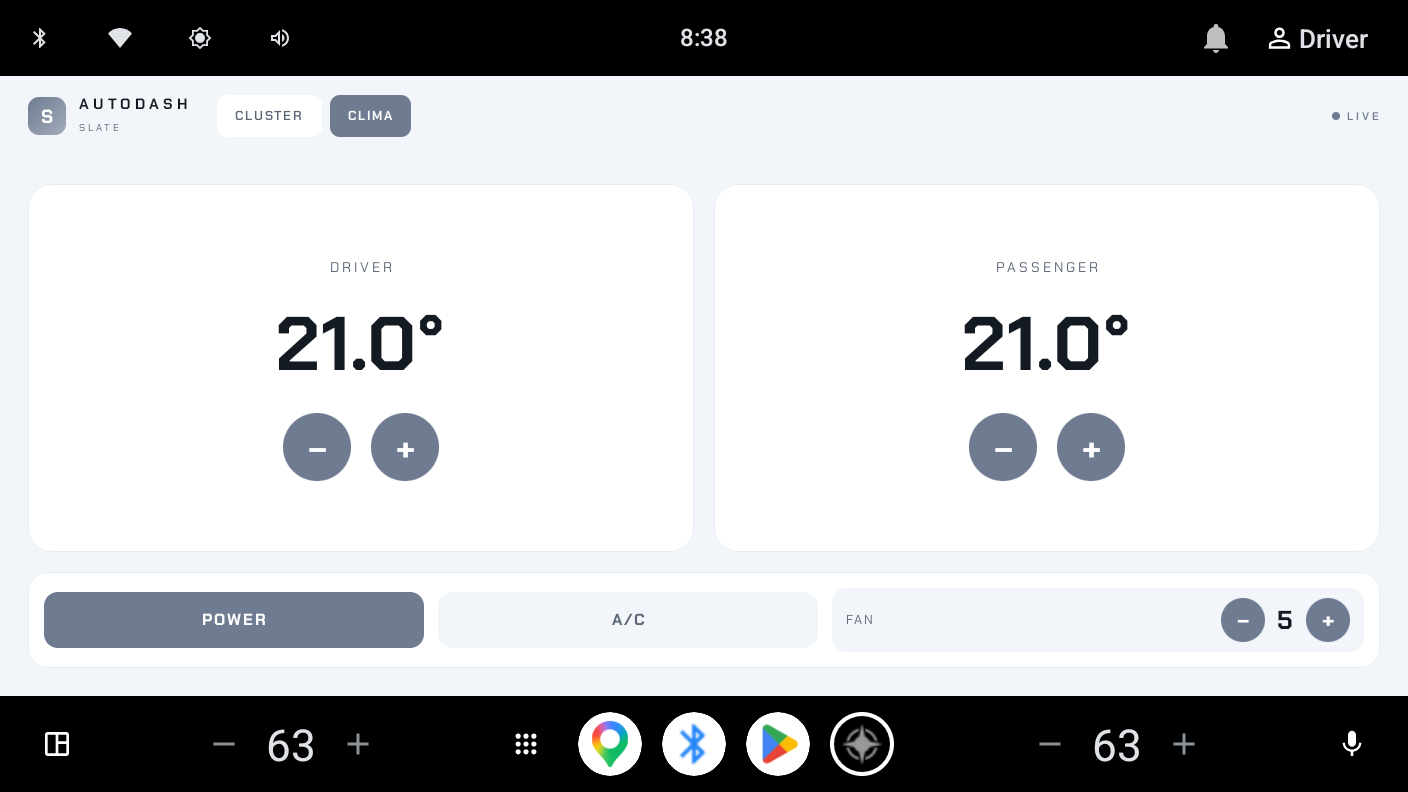
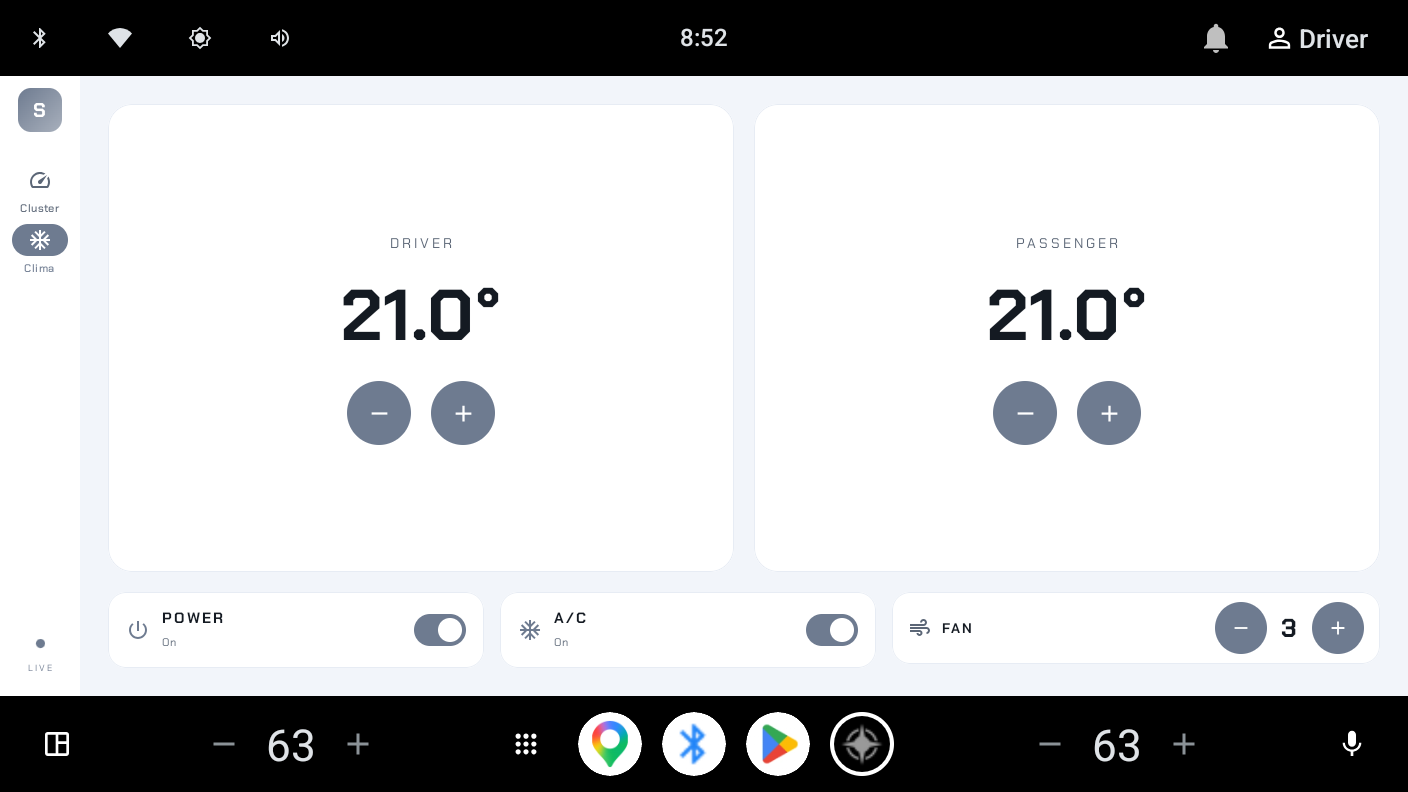
ux: NavigationRail + Switch/IconButton Material3 (a11y), gating do POWER, e flavors de marca
1) A/C e POWER agora sao Switch Material3 com rotulo + status On/Off + icone (feedback claro);
   desligar POWER desabilita/apaga zonas, A/C e FAN (nada de controle morto).
2) Padroes de UX: navegacao vira NavigationRail (padrao automotivo landscape); botoes +/-
   viram FilledIconButton (ripple, alvo >=52-64dp, contentDescription p/ TalkBack); icones
   semanticos (Speed, AcUnit, Air, Power). i18n no On/Off.
3) WHITE-LABEL nos Build Variants: re-adicionados os flavors de marca slate/aurora/ember/nord
   (x debug/release), cada um setando BuildConfig.DEFAULT_BRAND. Nomes neutros, nao OEMs.

Verificado no emulador (slateDebug): rail, switches, gating do POWER. 22 testes verdes.

diff --git a/feature/climate/src/main/java/com/autodash/feature/climate/ClimateScreen.kt b/feature/climate/src/main/java/com/autodash/feature/climate/ClimateScreen.kt
@@ -2,22 +2,29 @@ package com.autodash.feature.climate
 
 import androidx.compose.foundation.background
 import androidx.compose.foundation.border
-import androidx.compose.foundation.clickable
 import androidx.compose.foundation.layout.*
-import androidx.compose.foundation.shape.CircleShape
 import androidx.compose.foundation.shape.RoundedCornerShape
+import androidx.compose.material.icons.Icons
+import androidx.compose.material.icons.filled.AcUnit
+import androidx.compose.material.icons.filled.Add
+import androidx.compose.material.icons.filled.Air
+import androidx.compose.material.icons.filled.PowerSettingsNew
+import androidx.compose.material.icons.filled.Remove
 import androidx.compose.material3.ColorScheme
+import androidx.compose.material3.FilledIconButton
+import androidx.compose.material3.Icon
+import androidx.compose.material3.IconButtonDefaults
 import androidx.compose.material3.MaterialTheme
 import androidx.compose.material3.Surface
+import androidx.compose.material3.Switch
 import androidx.compose.material3.Text
 import androidx.compose.runtime.Composable
 import androidx.compose.ui.Alignment
 import androidx.compose.ui.Modifier
 import androidx.compose.ui.draw.clip
-import androidx.compose.ui.graphics.Color
+import androidx.compose.ui.graphics.vector.ImageVector
 import androidx.compose.ui.res.stringResource
 import androidx.compose.ui.text.font.FontWeight
-import androidx.compose.ui.text.style.TextAlign
 import androidx.compose.ui.unit.dp
 import androidx.compose.ui.unit.sp
 import com.autodash.core.designsystem.ChakraPetch
@@ -25,9 +32,9 @@ import com.autodash.core.model.Climate
 import com.autodash.core.model.Seat
 
 /**
- * CLIMA — HVAC completo por ZONA: temperatura de cada assento (HVAC_TEMPERATURE_SET por area),
- * + POWER / A/C / FAN. Todo +/- e toggle chama setProperty na camada de dados (docs/02, 04).
- * Sem tema próprio (host aplica AutoDashTheme). Responsivo por medida real.
+ * CLIMA — HVAC por ZONA + POWER/A-C/FAN. Padrões de UX: componentes Material3 (Switch,
+ * FilledIconButton) com ripple, alvo grande (≥64dp p/ carro) e contentDescription (TalkBack).
+ * Desligar POWER **desabilita e apaga** zonas/A-C/FAN — feedback claro do estado.
  */
 @Composable
 fun ClimateScreen(
@@ -38,25 +45,30 @@ fun ClimateScreen(
     onFan: (Int) -> Unit = {},
 ) {
     val cs = MaterialTheme.colorScheme
+    val on = state.powerOn
     Surface(Modifier.fillMaxSize(), color = cs.background) {
         BoxWithConstraints(Modifier.fillMaxSize().padding(28.dp)) {
             val wide = maxWidth >= maxHeight
             Column(Modifier.fillMaxSize(), verticalArrangement = Arrangement.spacedBy(20.dp)) {
-                val zones: @Composable (Modifier) -> Unit = { m ->
-                    ZoneCard(stringResource(R.string.driver), state.temp(Seat.DRIVER), state.powerOn, m) { onDelta(Seat.DRIVER, it) }
+                val zones = @Composable { m: Modifier ->
+                    Row(m, horizontalArrangement = Arrangement.spacedBy(20.dp)) {
+                        ZoneCard(stringResource(R.string.driver), state.temp(Seat.DRIVER), on, Modifier.weight(1f).fillMaxHeight()) { onDelta(Seat.DRIVER, it) }
+                        ZoneCard(stringResource(R.string.passenger), state.temp(Seat.PASSENGER), on, Modifier.weight(1f).fillMaxHeight()) { onDelta(Seat.PASSENGER, it) }
+                    }
                 }
                 if (wide) {
-                    Row(Modifier.fillMaxWidth().weight(1f), horizontalArrangement = Arrangement.spacedBy(20.dp)) {
-                        ZoneCard(stringResource(R.string.driver), state.temp(Seat.DRIVER), state.powerOn, Modifier.weight(1f).fillMaxHeight()) { onDelta(Seat.DRIVER, it) }
-                        ZoneCard(stringResource(R.string.passenger), state.temp(Seat.PASSENGER), state.powerOn, Modifier.weight(1f).fillMaxHeight()) { onDelta(Seat.PASSENGER, it) }
-                    }
+                    zones(Modifier.fillMaxWidth().weight(1f))
                 } else {
                     Column(Modifier.fillMaxWidth().weight(1f), verticalArrangement = Arrangement.spacedBy(20.dp)) {
-                        ZoneCard(stringResource(R.string.driver), state.temp(Seat.DRIVER), state.powerOn, Modifier.fillMaxWidth().weight(1f)) { onDelta(Seat.DRIVER, it) }
-                        ZoneCard(stringResource(R.string.passenger), state.temp(Seat.PASSENGER), state.powerOn, Modifier.fillMaxWidth().weight(1f)) { onDelta(Seat.PASSENGER, it) }
+                        ZoneCard(stringResource(R.string.driver), state.temp(Seat.DRIVER), on, Modifier.fillMaxWidth().weight(1f)) { onDelta(Seat.DRIVER, it) }
+                        ZoneCard(stringResource(R.string.passenger), state.temp(Seat.PASSENGER), on, Modifier.fillMaxWidth().weight(1f)) { onDelta(Seat.PASSENGER, it) }
                     }
                 }
-                ControlsBar(state, cs, onPower, onAc, onFan)
+                Row(Modifier.fillMaxWidth(), horizontalArrangement = Arrangement.spacedBy(16.dp)) {
+                    SwitchTile("POWER", Icons.Filled.PowerSettingsNew, on, enabled = true, Modifier.weight(1f)) { onPower() }
+                    SwitchTile("A/C", Icons.Filled.AcUnit, state.acOn && on, enabled = on, Modifier.weight(1f)) { onAc() }
+                    FanTile(state.fanSpeed, enabled = on, Modifier.weight(1.3f), onFan)
+                }
             }
         }
     }
@@ -65,74 +77,81 @@ fun ClimateScreen(
 @Composable
 private fun ZoneCard(label: String, tempC: Float, enabled: Boolean, modifier: Modifier, onDelta: (Float) -> Unit) {
     val cs = MaterialTheme.colorScheme
-    val alpha = if (enabled) 1f else 0.35f
+    val a = if (enabled) 1f else 0.35f
     Column(
         modifier.clip(RoundedCornerShape(24.dp)).background(cs.surface)
             .border(1.dp, cs.surfaceVariant, RoundedCornerShape(24.dp)).padding(24.dp),
         horizontalAlignment = Alignment.CenterHorizontally,
         verticalArrangement = Arrangement.Center,
     ) {
-        Text(label.uppercase(), color = cs.onSurfaceVariant.copy(alpha = alpha), fontFamily = ChakraPetch,
+        Text(label.uppercase(), color = cs.onSurfaceVariant.copy(alpha = a), fontFamily = ChakraPetch,
             letterSpacing = 3.sp, fontSize = 14.sp)
-        Spacer(Modifier.height(16.dp))
-        Text("%.1f°".format(tempC), color = cs.onSurface.copy(alpha = alpha), fontFamily = ChakraPetch,
-            fontWeight = FontWeight.Bold, fontSize = 76.sp)
-        Spacer(Modifier.height(20.dp))
+        Spacer(Modifier.height(14.dp))
+        Text("%.1f°".format(tempC), color = cs.onSurface.copy(alpha = a), fontFamily = ChakraPetch,
+            fontWeight = FontWeight.Bold, fontSize = 72.sp)
+        Spacer(Modifier.height(18.dp))
         Row(horizontalArrangement = Arrangement.spacedBy(20.dp)) {
-            RoundBtn("−", 68.dp, cs) { if (enabled) onDelta(-0.5f) }
-            RoundBtn("+", 68.dp, cs) { if (enabled) onDelta(0.5f) }
+            BigIconButton(Icons.Filled.Remove, "Diminuir temperatura de $label", enabled) { onDelta(-0.5f) }
+            BigIconButton(Icons.Filled.Add, "Aumentar temperatura de $label", enabled) { onDelta(0.5f) }
         }
     }
 }
 
 @Composable
-private fun ControlsBar(state: Climate, cs: ColorScheme, onPower: () -> Unit, onAc: () -> Unit, onFan: (Int) -> Unit) {
+private fun SwitchTile(label: String, icon: ImageVector, checked: Boolean, enabled: Boolean, modifier: Modifier, onToggle: () -> Unit) {
+    val cs = MaterialTheme.colorScheme
+    val a = if (enabled) 1f else 0.4f
     Row(
-        Modifier.fillMaxWidth().clip(RoundedCornerShape(20.dp)).background(cs.surface)
-            .border(1.dp, cs.surfaceVariant, RoundedCornerShape(20.dp)).padding(16.dp),
+        modifier.clip(RoundedCornerShape(18.dp)).background(cs.surface)
+            .border(1.dp, cs.surfaceVariant, RoundedCornerShape(18.dp)).padding(horizontal = 18.dp, vertical = 14.dp),
         verticalAlignment = Alignment.CenterVertically,
-        horizontalArrangement = Arrangement.spacedBy(14.dp),
     ) {
-        Toggle("POWER", state.powerOn, cs, Modifier.weight(1f), onPower)
-        Toggle("A/C", state.acOn, cs, Modifier.weight(1f), onAc)
-        // FAN
-        Row(
-            Modifier.weight(1.4f).clip(RoundedCornerShape(14.dp)).background(cs.background)
-                .padding(horizontal = 14.dp, vertical = 10.dp),
-            verticalAlignment = Alignment.CenterVertically,
-        ) {
-            Text("FAN", color = cs.onSurfaceVariant, fontFamily = ChakraPetch, letterSpacing = 2.sp, fontSize = 13.sp)
-            Spacer(Modifier.weight(1f))
-            RoundBtn("−", 44.dp, cs) { onFan(-1) }
-            Spacer(Modifier.width(12.dp))
-            Text("${state.fanSpeed}", color = cs.onSurface, fontFamily = ChakraPetch,
-                fontWeight = FontWeight.Bold, fontSize = 26.sp)
-            Spacer(Modifier.width(12.dp))
-            RoundBtn("+", 44.dp, cs) { onFan(1) }
+        Icon(icon, contentDescription = null,
+            tint = (if (checked) cs.primary else cs.onSurfaceVariant).copy(alpha = a))
+        Spacer(Modifier.width(12.dp))
+        Column {
+            Text(label, color = cs.onSurface.copy(alpha = a), fontFamily = ChakraPetch,
+                fontWeight = FontWeight.Bold, letterSpacing = 2.sp, fontSize = 15.sp)
+            Text(if (checked) stringResource(R.string.on) else stringResource(R.string.off),
+                color = cs.onSurfaceVariant.copy(alpha = a), fontFamily = ChakraPetch, fontSize = 11.sp)
         }
+        Spacer(Modifier.weight(1f))
+        Switch(checked = checked, onCheckedChange = { onToggle() }, enabled = enabled)
     }
 }
 
 @Composable
-private fun Toggle(label: String, on: Boolean, cs: ColorScheme, modifier: Modifier, onClick: () -> Unit) {
-    Box(
-        modifier.clip(RoundedCornerShape(14.dp))
-            .background(if (on) cs.primary else cs.background)
-            .clickable { onClick() }.padding(vertical = 16.dp),
-        contentAlignment = Alignment.Center,
+private fun FanTile(fan: Int, enabled: Boolean, modifier: Modifier, onFan: (Int) -> Unit) {
+    val cs = MaterialTheme.colorScheme
+    val a = if (enabled) 1f else 0.4f
+    Row(
+        modifier.clip(RoundedCornerShape(18.dp)).background(cs.surface)
+            .border(1.dp, cs.surfaceVariant, RoundedCornerShape(18.dp)).padding(horizontal = 16.dp, vertical = 10.dp),
+        verticalAlignment = Alignment.CenterVertically,
     ) {
-        Text(label, color = if (on) cs.onPrimary else cs.onSurfaceVariant, fontFamily = ChakraPetch,
-            fontWeight = FontWeight.Bold, letterSpacing = 2.sp, fontSize = 16.sp)
+        Icon(Icons.Filled.Air, contentDescription = null, tint = cs.onSurfaceVariant.copy(alpha = a))
+        Spacer(Modifier.width(10.dp))
+        Text("FAN", color = cs.onSurface.copy(alpha = a), fontFamily = ChakraPetch,
+            fontWeight = FontWeight.Bold, letterSpacing = 2.sp, fontSize = 14.sp)
+        Spacer(Modifier.weight(1f))
+        BigIconButton(Icons.Filled.Remove, "Reduzir ventilação", enabled, 52.dp) { onFan(-1) }
+        Text("$fan", color = cs.onSurface.copy(alpha = a), fontFamily = ChakraPetch,
+            fontWeight = FontWeight.Bold, fontSize = 26.sp,
+            modifier = Modifier.padding(horizontal = 14.dp))
+        BigIconButton(Icons.Filled.Add, "Aumentar ventilação", enabled, 52.dp) { onFan(1) }
     }
 }
 
 @Composable
-private fun RoundBtn(symbol: String, size: androidx.compose.ui.unit.Dp, cs: ColorScheme, onClick: () -> Unit) {
-    Box(
-        Modifier.size(size).clip(CircleShape).background(cs.primary).clickable { onClick() },
-        contentAlignment = Alignment.Center,
+private fun BigIconButton(icon: ImageVector, desc: String, enabled: Boolean, size: androidx.compose.ui.unit.Dp = 64.dp, onClick: () -> Unit) {
+    val cs = MaterialTheme.colorScheme
+    FilledIconButton(
+        onClick = onClick, enabled = enabled, modifier = Modifier.size(size),
+        colors = IconButtonDefaults.filledIconButtonColors(
+            containerColor = cs.primary, contentColor = cs.onPrimary,
+            disabledContainerColor = cs.surfaceVariant, disabledContentColor = cs.onSurfaceVariant,
+        ),
     ) {
-        Text(symbol, color = cs.onPrimary, fontFamily = ChakraPetch, fontWeight = FontWeight.Bold,
-            fontSize = (size.value * 0.5f).sp, textAlign = TextAlign.Center)
+        Icon(icon, contentDescription = desc, modifier = Modifier.size(size * 0.42f))
     }
 }

diff --git a/app/src/main/java/com/autodash/app/MainActivity.kt b/app/src/main/java/com/autodash/app/MainActivity.kt
@@ -4,10 +4,16 @@ import android.os.Bundle
 import androidx.activity.ComponentActivity
 import androidx.activity.compose.setContent
 import androidx.compose.foundation.background
-import androidx.compose.foundation.clickable
 import androidx.compose.foundation.layout.*
 import androidx.compose.foundation.shape.RoundedCornerShape
+import androidx.compose.material.icons.Icons
+import androidx.compose.material.icons.filled.AcUnit
+import androidx.compose.material.icons.filled.Speed
+import androidx.compose.material3.Icon
 import androidx.compose.material3.MaterialTheme
+import androidx.compose.material3.NavigationRail
+import androidx.compose.material3.NavigationRailItem
+import androidx.compose.material3.NavigationRailItemDefaults
 import androidx.compose.material3.Surface
 import androidx.compose.material3.Text
 import androidx.compose.runtime.Composable
@@ -19,7 +25,8 @@ import androidx.compose.ui.Alignment
 import androidx.compose.ui.Modifier
 import androidx.compose.ui.draw.clip
 import androidx.compose.ui.graphics.Brush
-import androidx.compose.ui.graphics.Color
+import androidx.compose.ui.semantics.contentDescription
+import androidx.compose.ui.semantics.semantics
 import androidx.compose.ui.text.font.FontWeight
 import androidx.compose.ui.unit.dp
 import androidx.compose.ui.unit.sp
@@ -39,9 +46,8 @@ import com.autodash.feature.dashboard.DashboardScreen
 import com.autodash.feature.dashboard.DashboardViewModel
 
 /**
- * Host. Chrome do app (marca + nav Cluster/Clima) + as telas (headerless).
- * WHITE-LABEL: marca fixa por build (BuildConfig.DEFAULT_BRAND). DEMO: FakeCarRepository.
- * Em AAOS real: CarPropertyRepository(android.car.Car.createCar(this)).
+ * Host. Navegação por **NavigationRail** (padrão automotivo em landscape: alvo grande,
+ * foco/rotativo, TalkBack). White-label: marca do FLAVOR (BuildConfig.DEFAULT_BRAND).
  */
 class MainActivity : ComponentActivity() {
     override fun onCreate(savedInstanceState: Bundle?) {
@@ -53,15 +59,16 @@ class MainActivity : ComponentActivity() {
                 val dashVm: DashboardViewModel = viewModel(factory = factory { DashboardViewModel(repo) })
                 val climVm: ClimateViewModel = viewModel(factory = factory { ClimateViewModel(repo) })
                 Surface(Modifier.fillMaxSize(), color = MaterialTheme.colorScheme.background) {
-                    Column(Modifier.fillMaxSize()) {
-                        AppBar(tab, onTab = { tab = it })
+                    Row(Modifier.fillMaxSize()) {
+                        Rail(tab, onTab = { tab = it })
                         Box(Modifier.weight(1f)) {
                             if (tab == 0) {
                                 val s by dashVm.ui.collectAsStateWithLifecycle()
                                 DashboardScreen(s)
                             } else {
                                 val c by climVm.ui.collectAsStateWithLifecycle()
-                                ClimateScreen(c, onDelta = climVm::delta, onPower = climVm::togglePower, onAc = climVm::toggleAc, onFan = climVm::fan)
+                                ClimateScreen(c, onDelta = climVm::delta, onPower = climVm::togglePower,
+                                    onAc = climVm::toggleAc, onFan = climVm::fan)
                             }
                         }
                     }
@@ -71,53 +78,43 @@ class MainActivity : ComponentActivity() {
     }
 }
 
-/** Barra do app: identidade da marca + navegação. Chrome fica no app, não nas telas. */
 @Composable
-private fun AppBar(tab: Int, onTab: (Int) -> Unit) {
+private fun Rail(tab: Int, onTab: (Int) -> Unit) {
     val cs = MaterialTheme.colorScheme
     val brand = LocalBrandTokens.current
-    Row(
-        Modifier.fillMaxWidth().padding(horizontal = 28.dp, vertical = 16.dp),
-        verticalAlignment = Alignment.CenterVertically,
+    NavigationRail(
+        header = {
+            Box(
+                Modifier.padding(top = 8.dp).size(44.dp).clip(RoundedCornerShape(13.dp))
+                    .background(Brush.linearGradient(listOf(cs.primary, cs.primary.copy(alpha = 0.6f))))
+                    .semantics { contentDescription = "AutoDash ${brand.name}" },
+                contentAlignment = Alignment.Center,
+            ) {
+                Text(brand.name.take(1), color = cs.onPrimary, fontFamily = ChakraPetch,
+                    fontWeight = FontWeight.Bold, fontSize = 20.sp)
+            }
+        },
     ) {
-        Box(
-            Modifier.size(38.dp).clip(RoundedCornerShape(11.dp))
-                .background(Brush.linearGradient(listOf(cs.primary, cs.primary.copy(alpha = 0.6f)))),
-            contentAlignment = Alignment.Center,
-        ) {
-            Text(brand.name.take(1), color = cs.onPrimary, fontFamily = ChakraPetch,
-                fontWeight = FontWeight.Bold, fontSize = 19.sp)
-        }
-        Spacer(Modifier.width(13.dp))
-        Column {
-            Text("AUTODASH", color = cs.onBackground, fontFamily = ChakraPetch,
-                fontWeight = FontWeight.Bold, letterSpacing = 4.sp, fontSize = 15.sp)
-            Text(brand.name, color = cs.onSurfaceVariant, fontFamily = ChakraPetch,
-                letterSpacing = 3.sp, fontSize = 10.sp)
-        }
-        Spacer(Modifier.width(28.dp))
-        NavPill("CLUSTER", tab == 0) { onTab(0) }
-        Spacer(Modifier.width(8.dp))
-        NavPill("CLIMA", tab == 1) { onTab(1) }
+        Spacer(Modifier.height(12.dp))
+        val colors = NavigationRailItemDefaults.colors(
+            selectedIconColor = cs.onPrimary, indicatorColor = cs.primary,
+            unselectedIconColor = cs.onSurfaceVariant,
+            selectedTextColor = cs.primary, unselectedTextColor = cs.onSurfaceVariant,
+        )
+        NavigationRailItem(
+            selected = tab == 0, onClick = { onTab(0) }, colors = colors,
+            icon = { Icon(Icons.Filled.Speed, contentDescription = "Cluster") },
+            label = { Text("Cluster", fontFamily = ChakraPetch, fontSize = 11.sp) },
+        )
+        NavigationRailItem(
+            selected = tab == 1, onClick = { onTab(1) }, colors = colors,
+            icon = { Icon(Icons.Filled.AcUnit, contentDescription = "Clima") },
+            label = { Text("Clima", fontFamily = ChakraPetch, fontSize = 11.sp) },
+        )
         Spacer(Modifier.weight(1f))
-        Box(Modifier.size(8.dp).clip(RoundedCornerShape(4.dp)).background(cs.primary))
-        Spacer(Modifier.width(7.dp))
-        Text("LIVE", color = cs.primary, fontFamily = ChakraPetch,
-            fontWeight = FontWeight.SemiBold, letterSpacing = 3.sp, fontSize = 11.sp)
-    }
-}
-
-@Composable
-private fun NavPill(label: String, on: Boolean, onClick: () -> Unit) {
-    val cs = MaterialTheme.colorScheme
-    Box(
-        Modifier.clip(RoundedCornerShape(10.dp))
-            .background(if (on) cs.primary else cs.surface)
-            .clickable { onClick() }
-            .padding(horizontal = 18.dp, vertical = 9.dp),
-    ) {
-        Text(label, color = if (on) cs.onPrimary else cs.onSurfaceVariant,
-            fontFamily = ChakraPetch, fontWeight = FontWeight.SemiBold, letterSpacing = 2.sp, fontSize = 13.sp)
+        Box(Modifier.size(9.dp).clip(RoundedCornerShape(5.dp)).background(cs.primary))
+        Text("LIVE", color = cs.primary, fontFamily = ChakraPetch, fontSize = 9.sp,
+            letterSpacing = 2.sp, modifier = Modifier.padding(bottom = 12.dp, top = 4.dp))
     }
 }
 

diff --git a/docs/10-cluster-hvac-nav.md b/docs/10-cluster-hvac-nav.md
@@ -22,3 +22,16 @@ Duas telas, dois ViewModels, um repositório. White-label: sem seletor de marca.
 - **Template POI (Robolectric + androidx.car.app:app-testing):** `PoiScreenTest` valida que
   `PoiScreen` devolve `ListTemplate` com N itens e o detalhe é `PaneTemplate` — testa a UI
   dirigível sem host de carro. 21 testes no total, verdes.
+
+## UX / usabilidade (padrões)
+- **Navegação:** `NavigationRail` (Material3) — padrão em head unit landscape: alvos grandes,
+  ícones + rótulo, foco/rotativo e TalkBack de graça. (Antes eram "pills" caseiras.)
+- **Controles:** `Switch` (POWER, A/C) com rótulo + status **On/Off** e ícone — feedback claro;
+  `FilledIconButton` (≥52–64dp) com `contentDescription` p/ +/- de temperatura e ventilação.
+- **Estado dependente:** desligar POWER **desabilita e apaga** zonas/A-C/FAN (nada de controle
+  "morto" clicável). i18n nos rótulos e no On/Off.
+
+## White-label nos Build Variants
+Cada marca é um **product flavor** (`slate`/`aurora`/`ember`/`nord`), então aparece em
+**Build Variants** no Android Studio (× debug/release). Selecionar o flavor = escolher a marca
+do binário. `BuildConfig.DEFAULT_BRAND` vem do flavor; a UI lê os tokens do design system.

diff --git a/app/README.md b/app/README.md
@@ -11,8 +11,9 @@ a **marca padrão** (via `BuildConfig.DEFAULT_BRAND`) e o *host* Activity do das
 ## White-label (design system multi-brand)
 O app **não é** de nenhuma OEM. A identidade é um `BrandTokens` do
 [`core/designsystem`](../core/designsystem) (marcas neutras: Slate/Aurora/Ember/Nord).
-- **Padrão do build:** `BuildConfig.DEFAULT_BRAND` (aqui, `slate`). Em produção, cada OEM =
-  um **flavor** que muda esse valor e fornece seus recursos/RRO — sem tocar nas telas.
+- **Um flavor por marca** (aparecem em **Build Variants**): `slate` / `aurora` / `ember` / `nord`
+  (× debug/release). Cada um seta `BuildConfig.DEFAULT_BRAND`. Nomes NEUTROS, não OEMs reais.
+  Trocar a identidade = trocar de flavor; produção adicionaria recursos/RRO por flavor.
 - **Uma marca por build** (white-label): sem seletor para o usuário. `AutoDashTheme` re-tematiza a partir do `BrandTokens` — o poder multi-brand é provado por snapshot (docs/06).
 
 ## Responsivo (portrait × landscape)

diff --git a/README.md b/README.md
@@ -74,7 +74,7 @@ conhece Android nem o carro** → regra testável sem emulador.
 
 ## ▶ Rodar
 ```bash
-./gradlew :app:installDebug     # instala no emulador (AVD com system image Automotive)
+./gradlew :app:installSlateDebug   # instala a marca "slate" (flavors: slate/aurora/ember/nord)
 ./gradlew test                  # unit + snapshot (Paparazzi) + template (Robolectric)
 ./gradlew :feature:dashboard:recordPaparazziDebug   # regenera os goldens
 ```
